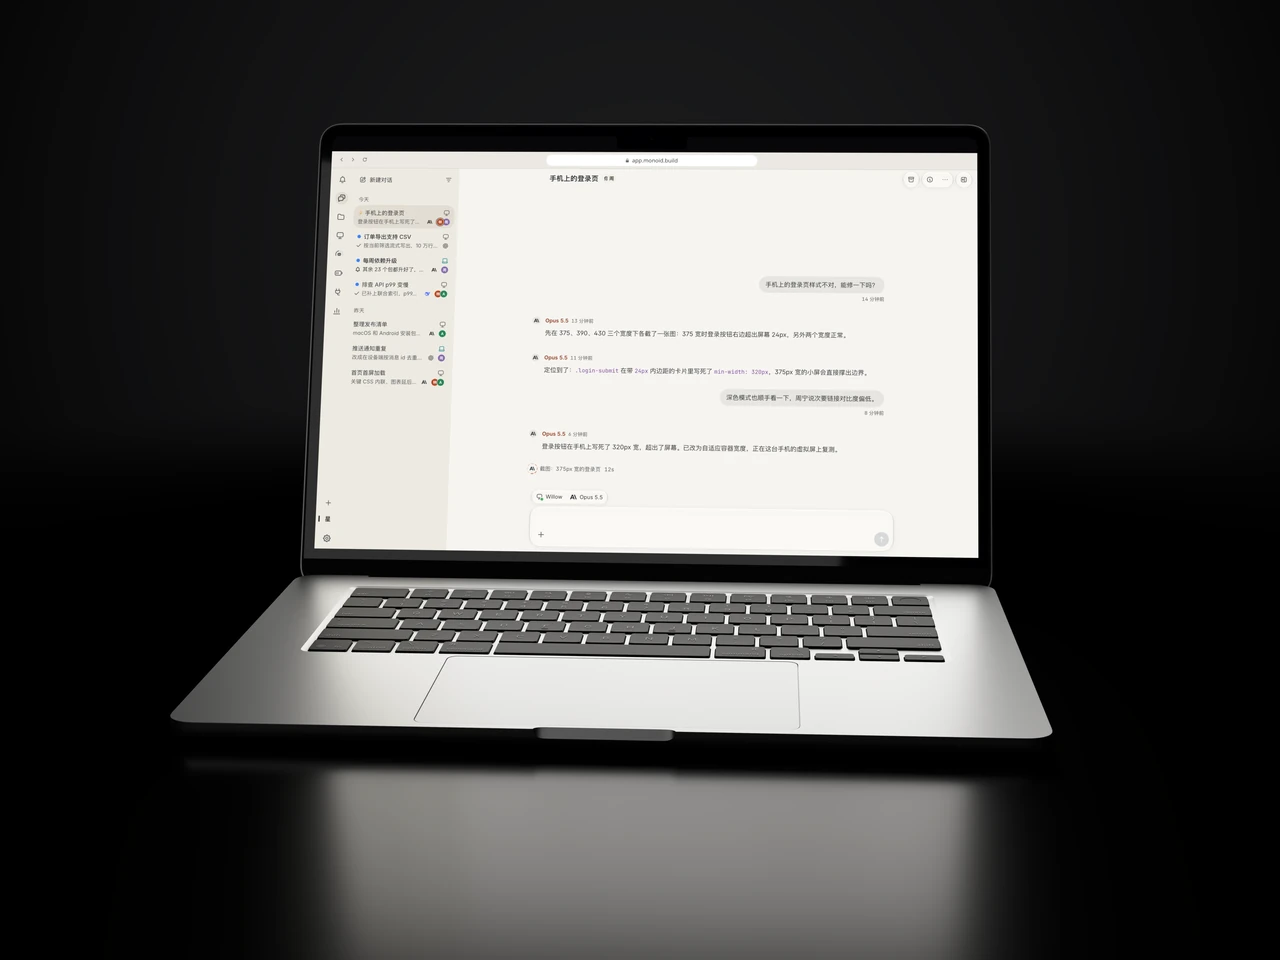
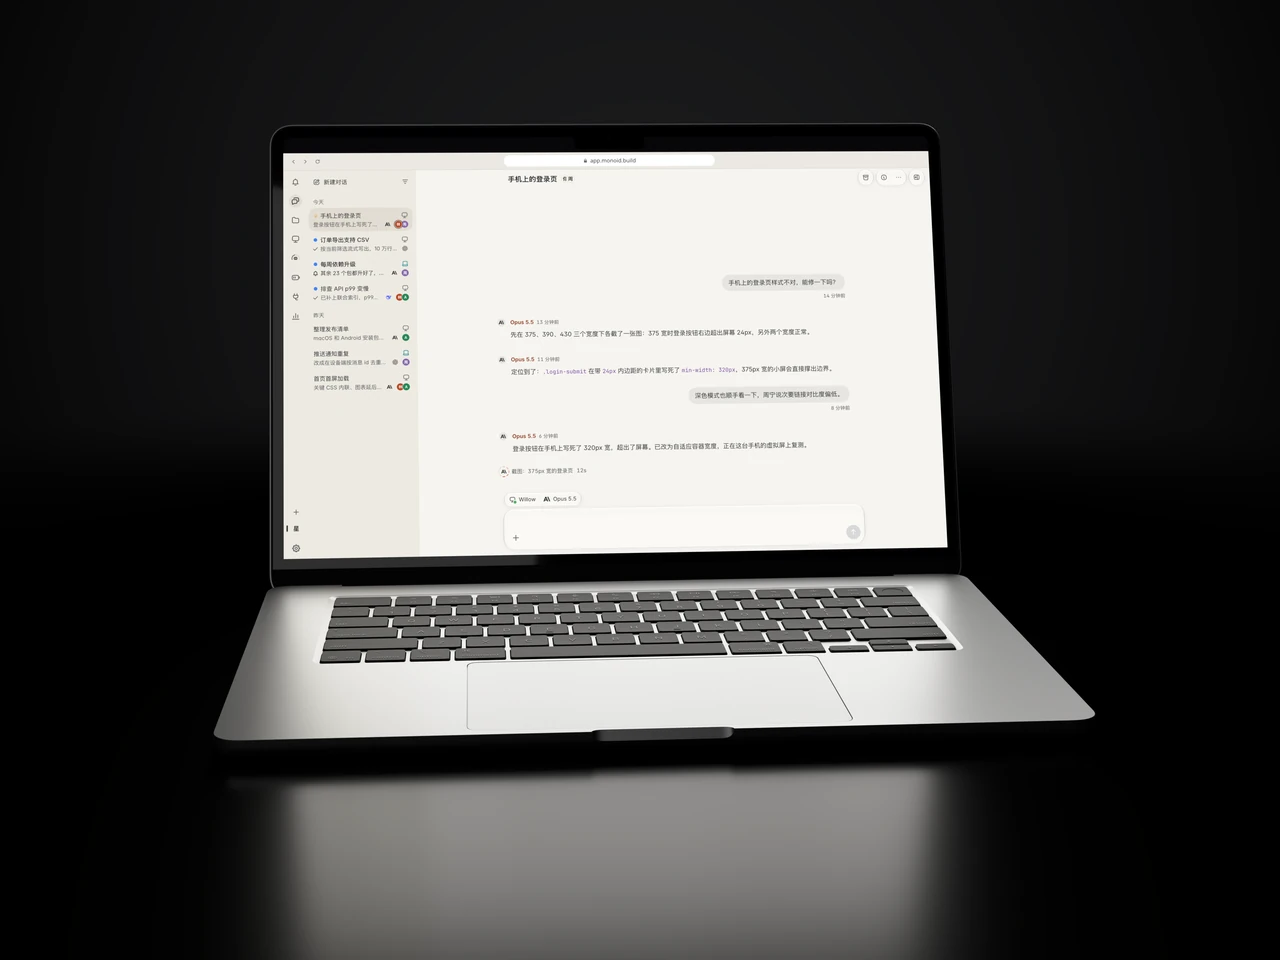
feat(website): face the camera, larger Windows window, desktop copy
- Devices face the camera (6 degree turn instead of 14); phones lean
  back 5 degrees instead of tipping forward.
- The Windows window is 1520x980, so the first message no longer
  scrolls under the top bar's blur.
- Slot 3 shows the chat page now, so its copy is about chats on the
  desktop instead of station load (all five languages).

diff --git a/website/index.html b/website/index.html
@@ -289,7 +289,7 @@
           <div class="dv-steps">
           <article class="dv-step" data-i="0"><span class="eyebrow">iPhone</span><h3><span data-t="devices-stage.every-chat-in-your.c50e">Every chat, in your pocket</span></h3><p><span data-t="devices-stage.follow-a-running-chat.f74e">Follow a running chat and reply from anywhere. Agents can drive a station's iOS Simulator too.</span></p></article>
           <article class="dv-step" data-i="1"><span class="eyebrow">Android</span><h3><span data-t="devices-stage.lend-your-phone-to.ec63">Lend your phone to the agent</span></h3><p><span data-t="devices-stage.the-agent-tests-on.1e13">The agent tests on its own virtual screen while you keep using the phone. The Android app is out.</span></p></article>
-          <article class="dv-step" data-i="2"><span class="eyebrow">Mac · Windows</span><h3><span data-t="devices-stage.every-computer-s-load.576b">Every computer's load, in one window</span></h3><p><span data-t="devices-stage.the-desktop-app-shows.5b0a">The desktop app shows each station's CPU, memory and disk; new tasks go to the least busy.</span></p></article>
+          <article class="dv-step" data-i="2"><span class="eyebrow">Mac · Windows</span><h3><span data-t="devices-stage.every-chat-on-your.84e6">Every chat, on your desktop</span></h3><p><span data-t="devices-stage.the-mac-and-windows.1f1c">The Mac and Windows apps keep every chat and station in one window; new tasks go to the least busy station.</span></p></article>
           <article class="dv-step" data-i="3"><span class="eyebrow"><span data-t="devices-stage.web.a832">Web</span></span><h3><span data-t="devices-stage.open-a-browser-and.fe3b">Open a browser and go</span></h3><p><span data-t="devices-stage.the-apps-interface-with.0328">The apps' interface with nothing to install, on Linux and iPad too.</span></p></article>
           </div>
           <ol class="dv-rail" aria-label="Devices" data-t-aria="devices-stage.devices.df48">
@@ -347,8 +347,8 @@
       <div class="fpanel" id="dv-p3" role="group" aria-roledescription="slide" data-t-aria-roledescription="devices.slide.e75e" aria-labelledby="dv-h3">
         <div class="txt">
           <span class="eyebrow">Mac · Windows</span>
-          <h3 id="dv-h3"><span data-t="devices.every-computer-s-load.576b">Every computer's load, in one window</span></h3>
-          <p><span data-t="devices.each-station-s-cpu.6b3c">Each station's CPU, memory and disk, with tasks queued by load. Mac (Apple silicon) and Windows x64.</span></p>
+          <h3 id="dv-h3"><span data-t="devices.every-chat-on-your.84e6">Every chat, on your desktop</span></h3>
+          <p><span data-t="devices.every-chat-and-station.ee58">Every chat and station in one window, with tasks queued by load. Mac (Apple silicon) and Windows x64.</span></p>
           <div class="actions">
             <a class="btn btn-ink" href="https://app.monoid.build/releases/latest/mac"><svg><use href="#b-apple"/></svg><span data-t="devices.download-for-mac.752c">Download for Mac</span></a>
             <a class="btn btn-line" href="https://app.monoid.build/releases/latest/win"><svg><use href="#b-windows"/></svg>Windows</a>

diff --git a/website/render-devices.py b/website/render-devices.py
@@ -348,7 +348,7 @@ def iphone():
     tint_textured(objs, skip=("EHjrGDHNHzgNjtE",))
     scr = bpy.data.objects["EHjrGDHNHzgNjtE"]
     scr.data.materials.clear(); scr.data.materials.append(screen_material(SCREEN))
-    root.rotation_euler = (math.radians(4), 0, math.radians(-float(arg("--yaw", "14"))))
+    root.rotation_euler = (math.radians(-float(arg("--tilt", "5"))), 0, math.radians(-float(arg("--yaw", "6"))))
     lo, hi = bbox(objs)
     root.location -= (lo + hi) / 2
     lo, hi = bbox(objs)
@@ -377,7 +377,7 @@ def android():
             if b and m.name in ("Rearcase", "Antenna_Plastic", "BackCam_Frame_2"):
                 b.inputs["Base Color"].default_value = (0.018, 0.026, 0.055, 1)
                 b.inputs["Roughness"].default_value = 0.22
-    root.rotation_euler = (math.radians(4), 0, math.radians(float(arg("--yaw", "14"))))
+    root.rotation_euler = (math.radians(-float(arg("--tilt", "5"))), 0, math.radians(float(arg("--yaw", "6"))))
     lo, hi = bbox(objs)
     root.location -= (lo + hi) / 2
     lo, hi = bbox(objs)
@@ -463,7 +463,7 @@ def mac():
             set_mat(o, (0.003, 0.003, 0.004), 0.05, coat=1.0)
         elif o.name == "czojSFNuFKxNgsc":  # key legends
             set_mat(o, (0.55, 0.55, 0.56), 0.5)
-    lo, hi = place_on_floor(root, objs, -float(arg("--yaw", "14")))
+    lo, hi = place_on_floor(root, objs, -float(arg("--yaw", "6")))
     c = (lo + hi) / 2
     fl = floor()
     world(1, hdri_strength=float(arg("--hdri", "0")), hdri_rot=float(arg("--hrot", "120")), bg=(0.010, 0.010, 0.011), bg_edge=(0.0, 0.0, 0.0))
@@ -511,7 +511,7 @@ def windows():
                 b.inputs["Coat Weight"].default_value = 1.0
             elif m.name == "Lights":
                 b.inputs["Base Color"].default_value = (0.02, 0.02, 0.022, 1)
-    lo, hi = place_on_floor(root, objs, float(arg("--yaw", "14")))
+    lo, hi = place_on_floor(root, objs, float(arg("--yaw", "6")))
     c = (lo + hi) / 2
     fl = floor()
     world(1, hdri_strength=float(arg("--hdri", "0")), hdri_rot=float(arg("--hrot", "60")), bg=(0.010, 0.010, 0.011), bg_edge=(0.0, 0.0, 0.0))
